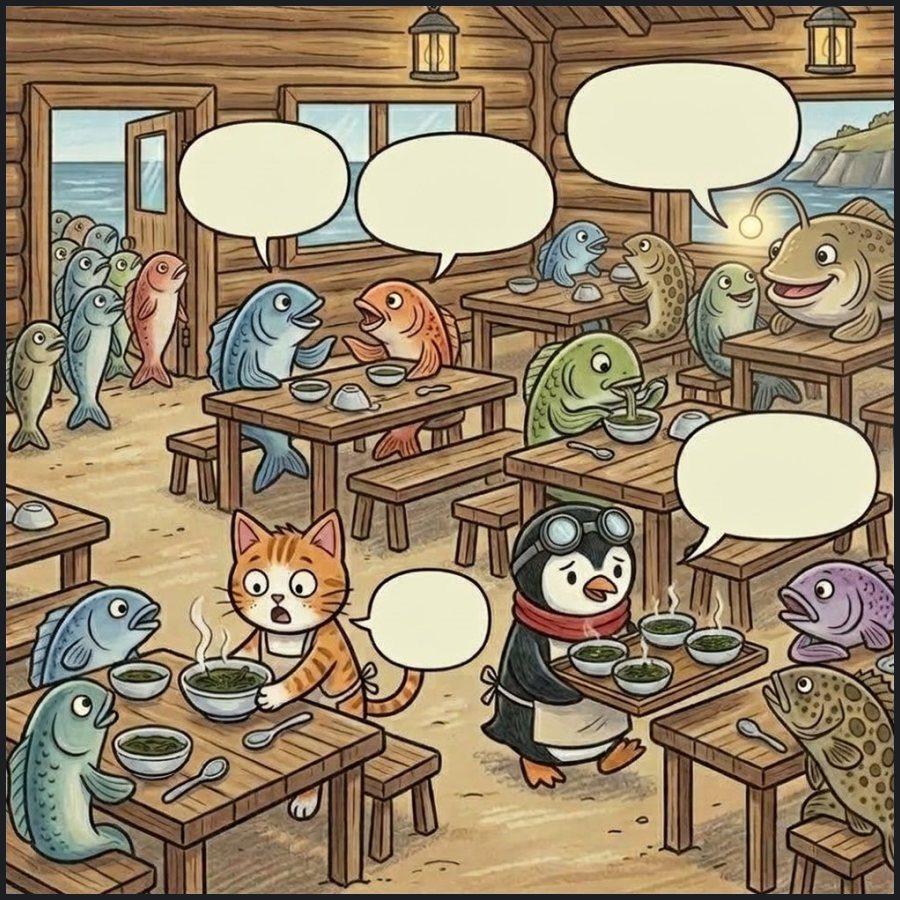
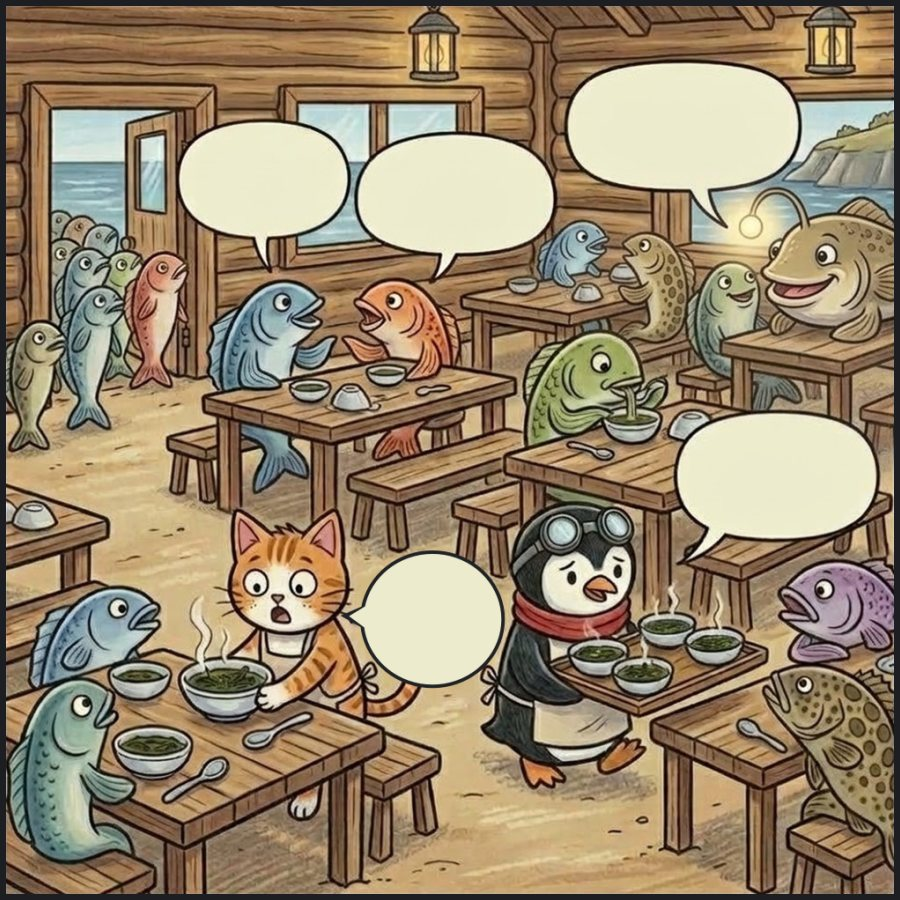
Episode 4: bigger dolphin and cat bubbles
Claude-Session: https://claude.ai/code/session_01NreAqm5NtqDWekSoZfY2fL

Changed region(s): [[0.3733, 0.5911, 0.56, 0.7778]]

diff --git a/ep4/index.html b/ep4/index.html
@@ -206,7 +206,7 @@ body.show-en .story{gap:2px}
     <div class="story"><p data-line="小真|游到|海里|，" data-en="Xiao Zhen swam into the sea"></p><p data-line="告诉|海豚|和|海豹|。" data-en="and told the dolphin and the seal."></p><p data-line="没想到|，|旁边|的|小鱼|也|听到|了|……" data-en="He didn't expect that the little fish nearby heard too…"></p></div>
     <figure>
       <img src="sq3.jpg" alt="Underwater, the orca tells a dolphin and a seal about the restaurant while fish listen nearby" width="900" height="900">
-      <button class="bub" data-who="orca" data-line="我|朋友|开了|新的|鱼|餐厅|！" data-en="My friends opened a new fish restaurant!" data-show="我朋友开了/新的鱼餐厅！" style="left:5.6%;top:4.2%;width:55.8%;height:21.0%;font-size:6.6cqw;line-height:1.25"></button><button class="bub" data-who="dolphin" data-line="哦|……|我们|去|试试|吧|！" data-en="Ooh… let's go and try it!" data-show="哦……/我们去试试吧！" style="left:43.9%;top:67.5%;width:21.3%;height:9.6%;font-size:3.5cqw;line-height:1.25"></button><button class="bub" data-who="seal" data-line="明天|吗|？" data-en="Tomorrow?" style="left:35.3%;top:83.6%;width:31.5%;height:11.0%;font-size:6.0cqw;line-height:1.25"></button>
+      <button class="bub" data-who="orca" data-line="我|朋友|开了|新的|鱼|餐厅|！" data-en="My friends opened a new fish restaurant!" data-show="我朋友开了/新的鱼餐厅！" style="left:5.6%;top:4.2%;width:55.8%;height:21.0%;font-size:6.6cqw;line-height:1.25"></button><button class="bub" data-who="dolphin" data-line="哦|……|我们|去|试试|吧|！" data-en="Ooh… let's go and try it!" data-show="哦……/我们去/试试吧！" style="left:43.1%;top:65.9%;width:22.6%;height:13.1%;font-size:4.8cqw;line-height:1.25"></button><button class="bub" data-who="seal" data-line="明天|吗|？" data-en="Tomorrow?" style="left:35.3%;top:83.6%;width:31.5%;height:11.0%;font-size:6.0cqw;line-height:1.25"></button>
     </figure>
   </section>
   <section class="panel">
@@ -220,7 +220,7 @@ body.show-en .story{gap:2px}
     <div class="story"><p data-line="小懒猫|看傻了|。" data-en="Little Lazy Cat just stared."></p><p data-line="小林|马上|煮了|一大锅|海带汤|。" data-en="Xiao Lin quickly cooked a big pot of kelp soup."></p><p data-line="小鱼们|都|说|：|“|好喝|！|”" data-en="All the little fish said: “Yummy!”"></p></div>
     <figure>
       <img src="sq5.jpg" alt="Fish customers, including a big anglerfish, eat kelp soup while the penguin and cat serve bowls" width="900" height="900">
-      <button class="bub" data-who="fish" data-line="海带汤|真|好喝|！" data-en="The kelp soup is so good!" data-show="海带汤/真好喝！" style="left:20.8%;top:14.6%;width:16.7%;height:10.6%;font-size:4.2cqw;line-height:1.25"></button><button class="bub" data-who="fish" data-line="明天|我|还要|来|！" data-en="I'm coming back tomorrow!" data-show="明天/我还要来！" style="left:40.7%;top:16.1%;width:19.8%;height:11.1%;font-size:4.2cqw;line-height:1.25"></button><button class="bub" data-who="fish" data-line="看起来|好|好吃|！" data-en="It looks so yummy!" data-show="看起来/好好吃！" style="left:64.1%;top:7.8%;width:23.5%;height:12.2%;font-size:5.0cqw;line-height:1.25"></button><button class="bub" data-who="penguin" data-line="海带汤|来了|！" data-en="Here's your kelp soup!" data-show="海带汤/来了！" style="left:76.2%;top:47.0%;width:20.1%;height:12.0%;font-size:5.0cqw;line-height:1.25"></button><button class="bub" data-who="cat" data-line="五号桌|再来|一碗|！" data-en="One more bowl for table five!" data-show="五号桌/再来一碗！" style="left:41.8%;top:64.5%;width:11.7%;height:8.7%;font-size:2.6cqw;line-height:1.25"></button>
+      <button class="bub" data-who="fish" data-line="海带汤|真|好喝|！" data-en="The kelp soup is so good!" data-show="海带汤/真好喝！" style="left:20.8%;top:14.6%;width:16.7%;height:10.6%;font-size:4.2cqw;line-height:1.25"></button><button class="bub" data-who="fish" data-line="明天|我|还要|来|！" data-en="I'm coming back tomorrow!" data-show="明天/我还要来！" style="left:40.7%;top:16.1%;width:19.8%;height:11.1%;font-size:4.2cqw;line-height:1.25"></button><button class="bub" data-who="fish" data-line="看起来|好|好吃|！" data-en="It looks so yummy!" data-show="看起来/好好吃！" style="left:64.1%;top:7.8%;width:23.5%;height:12.2%;font-size:5.0cqw;line-height:1.25"></button><button class="bub" data-who="penguin" data-line="海带汤|来了|！" data-en="Here's your kelp soup!" data-show="海带汤/来了！" style="left:76.2%;top:47.0%;width:20.1%;height:12.0%;font-size:5.0cqw;line-height:1.25"></button><button class="bub" data-who="cat" data-line="五号桌|再来|一碗|！" data-en="One more bowl for table five!" data-show="五号桌/再来/一碗！" style="left:41.4%;top:62.7%;width:13.3%;height:12.1%;font-size:4.2cqw;line-height:1.25"></button>
     </figure>
   </section>
   <section class="panel">
